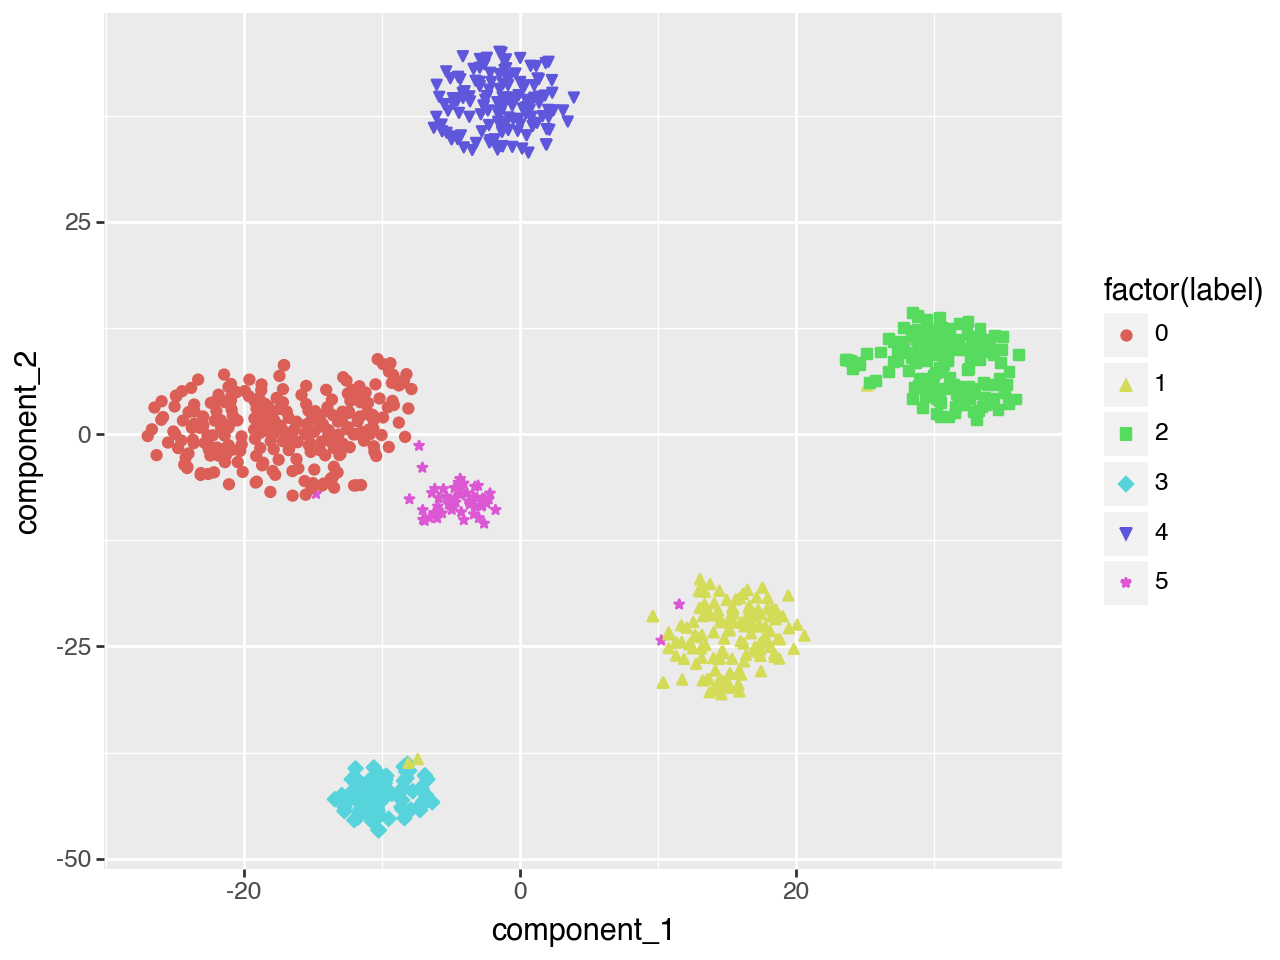
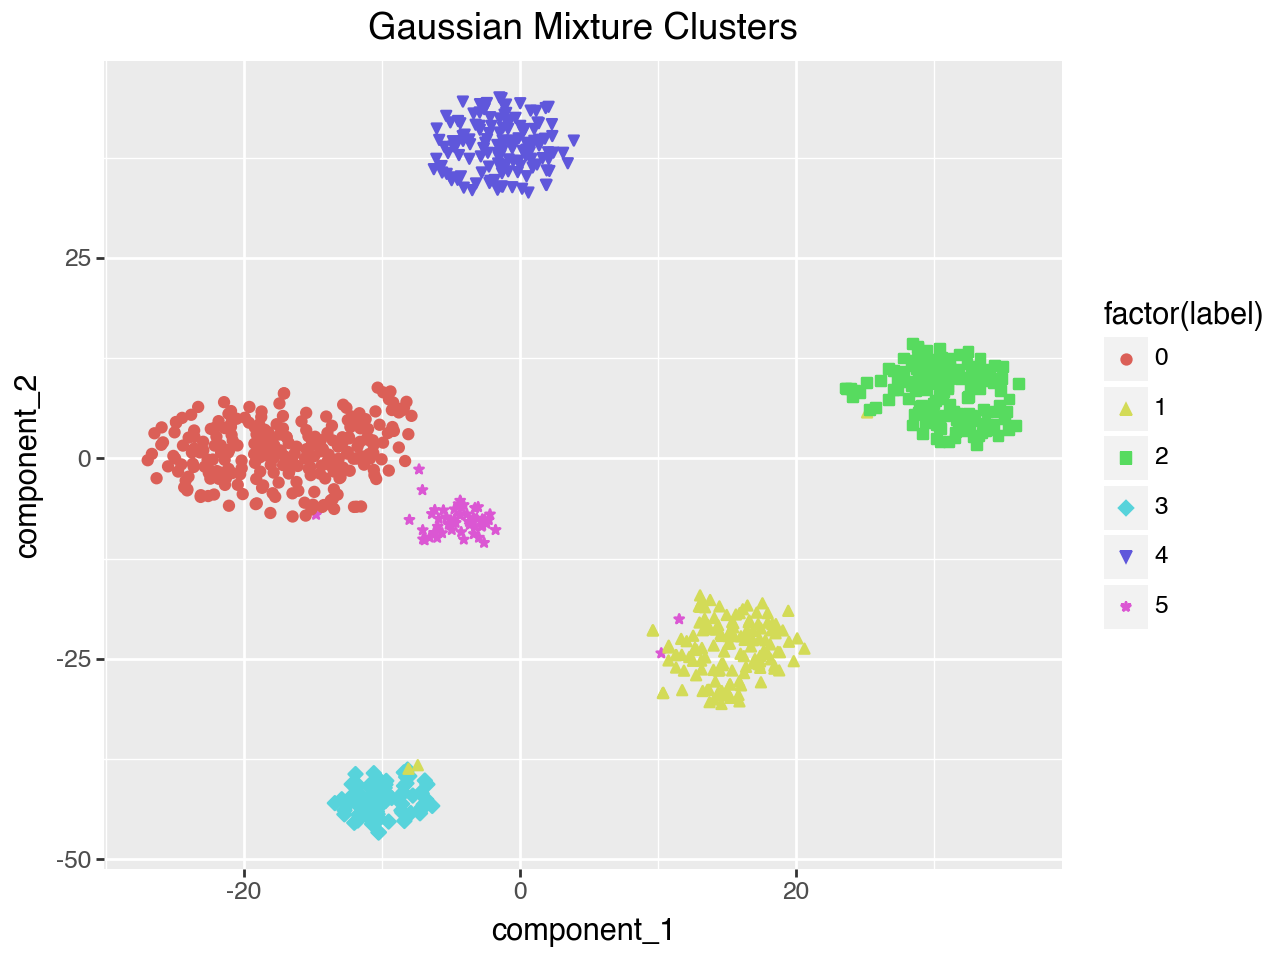
Graphs have titles

diff --git a/clustering.py b/clustering.py
@@ -100,6 +100,7 @@ def graph_2d(data, labels, title):
         ggplot(data_2d_labeled)
         + aes(x="component_1", y="component_2",shape="factor(label)", color="factor(label)")
         + geom_point()
+        + ggtitle(title)
         )
     plot.show()
     plot.save(title)
@@ -275,6 +276,7 @@ def findBestClusterValue (silhouettes):
 data, labels = read_data()
 
 # perform_dbscan(data)
+graph_2d(data, labels, "Actual Cancer Types")
 perform_KMeans(data, labels)
 perform_spectral(data, labels)
 perform_gaussian(data, labels)
